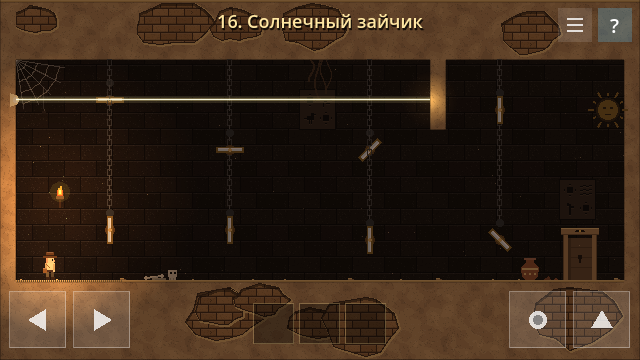
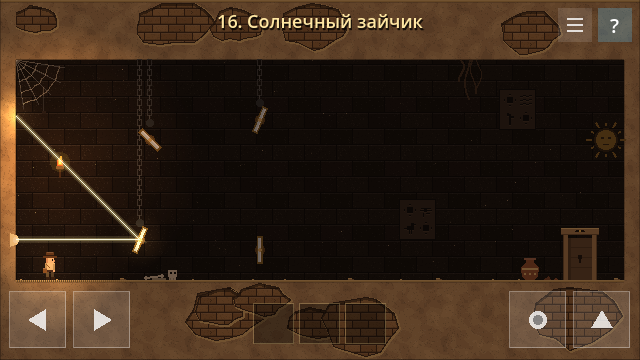
Level 16: four mirrors with 22.5-degree steps, diagonal beam that crosses itself
Claude-Session: https://claude.ai/code/session_01Grf5WdcuQYwuX1MMBXvSiC

diff --git a/docs/levels-pyramid.md b/docs/levels-pyramid.md
@@ -44,7 +44,7 @@ _Первая версия игры: все 33 уровня. Обновлено:
 | 13 | «Вишня, небо, солнце, трава» | порядок нажатия | четыре цветные плиты в полу стоят вперемешку: жёлтая, красная, зелёная, синяя. Название зоны задаёт порядок: вишня — красная, небо — синяя, солнце — жёлтая, трава — зелёная. Плита проседает, пока на ней стоит герой, и всегда светится своим цветом; ошибка ничем не показывается. Дверь открывается, когда четыре последние плиты нажаты в верном порядке, поэтому через ненужные надо перепрыгивать |
 | 14 | «Толкай» | физика: каменный блок | герой начинает на высоком уступе слева и сам сталкивает с него камень, затем спрыгивает. В стене уступа высоко над полом потайной ход: с пола не допрыгнуть. Герой подталкивает камень к уступу, залезает на него и прыгает в стену — открывается тайник внутри уступа, там ключ. Ключ открывает дверь справа |
 | 15 | «Рука помощи» | рука переносит героя | посередине зала бездонный обрыв шире прыжка, обходного пути нет. Героя можно взять пальцем и перетащить (подсказок на экране нет, только в «?»), сквозь камень он не проходит. Отпустил над обрывом — падение и начало заново. Зал украшен: паутина в углах, корни из потолка, кости прежнего искателя у края, кувшины, иероглифы и факелы |
-| 16 | «Солнечный зайчик» | луч и поворотные зеркала (рука) | из щели в левой стене бьёт луч. Восемь зеркал висят на цепях; касание пальцем поворачивает зеркало на 45°. Луч должен пройти лесенкой (вниз, вправо, вверх, вправо, вниз, вправо, вверх) и попасть в солнце на правой стене: солнце загорается, дверь открывается. Каменный выступ с потолка не даёт лучу пройти к солнцу напрямую. Платформ нет, герою остаётся дойти до двери |
+| 16 | «Солнечный зайчик» | луч и поворотные зеркала (рука) | из щели в левой стене бьёт луч. Четыре зеркала на цепях; касание пальцем поворачивает зеркало на 22,5°, поэтому луч уходит и наискосок. Верный путь: наискосок вверх, прямо вниз, наискосок вверх-влево и вправо на солнце; луч трижды пересекает сам себя. Солнце загорается, дверь открывается. Платформ нет |
 | 17 | «Тяжесть» | нажимная плита | ящик, поставленный на плиту, держит дверь открытой |
 | 18 | «Где-то там» | событие вдали (с показом) | кнопка открывает дверь в другом зале, камера показывает её |
 | 19 | «Слушай» | событие вдали (только звук) | после нажатия слышен скрежет, дверь нужно найти самому |

diff --git a/README.md b/README.md
@@ -29,7 +29,7 @@
 | `scripts/hero.gd` | герой: ходьба, прыжок, действие; на этих уровнях смерти нет |
 | `scripts/hud.gd` | экранные кнопки и разбор касаний: кнопки по краям — герой, остальное — рука |
 | `scripts/rune_block.gd` | камень с голубой руной: касание (TAP) или перетаскивание (DRAG) |
-| `scripts/mirror.gd`, `light_beam.gd`, `sun_target.gd` | поворотное зеркало (касание пальцем, шаг 45°), луч из стены с отражениями, солнце-мишень |
+| `scripts/mirror.gd`, `light_beam.gd`, `sun_target.gd` | поворотное зеркало (касание пальцем, шаг 22,5°), луч из стены с отражениями, солнце-мишень |
 | `scripts/door.gd`, `lever.gd`, `exit_door.gd` | дверь, рычаг, выход |
 | `scripts/color_plate.gd`, `plate_sequence.gd` | цветные плиты в полу и головоломка «нажми по порядку» (уровень 13) |
 | `scripts/push_stone.gd` | каменный блок: герой толкает его и залезает на него; с hand_nudge его можно толкнуть пальцем (уровень 14) |
